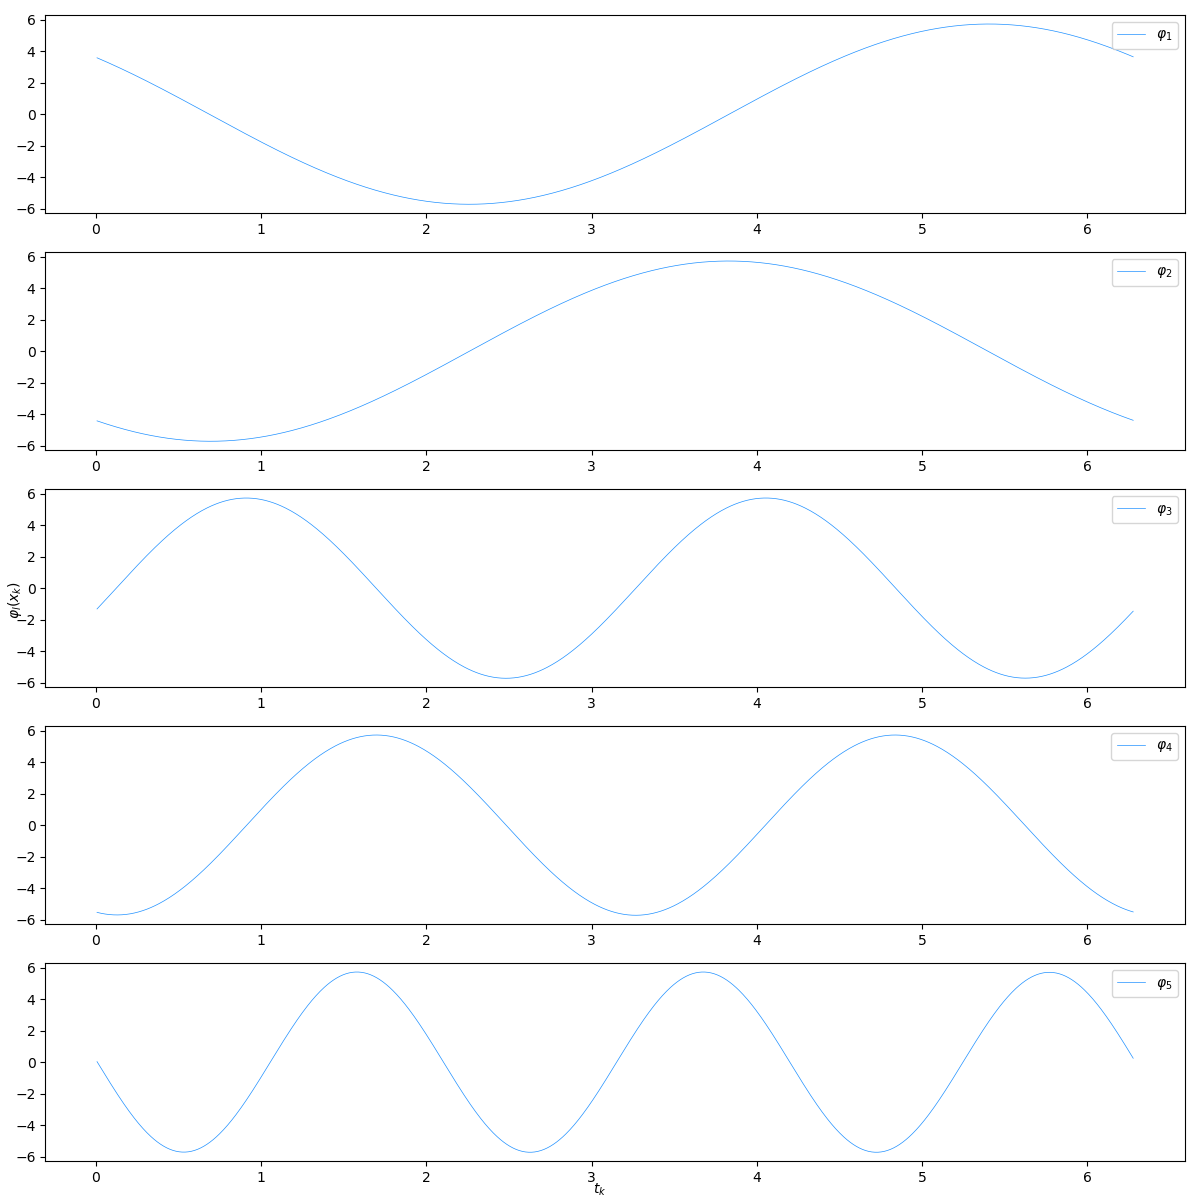
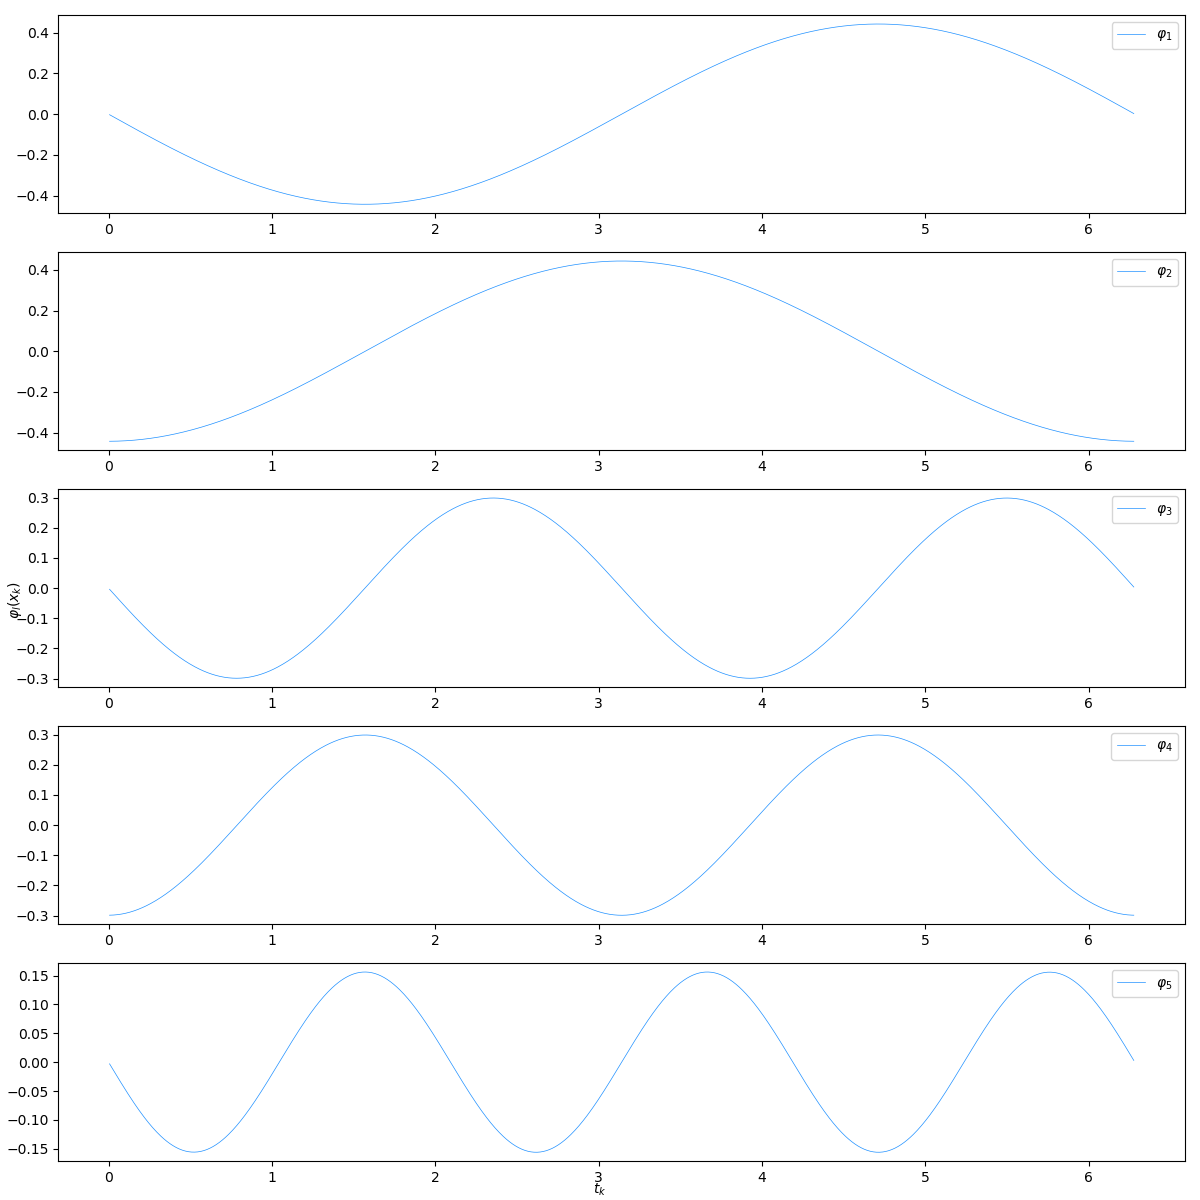
Task 2 testing

diff --git a/task2/task2.py b/task2/task2.py
@@ -39,14 +39,14 @@ def distance_matrix(X):
 
     return D
 
+
 def diffusion_map_algorithm(X,L):
     """
 
     :param X: Data points
     :param L: Number of eigenfunctions
-    :return: Eigenfunctions φ0, φ1, ...., φL+1
+    :return:
     """
-    #returns eigenfunctions
 
     # 1. Form a distance matrix D with entries
     D = distance_matrix(X)
@@ -58,7 +58,7 @@ def diffusion_map_algorithm(X,L):
     P = np.sum(W, axis=1)
     # 5. Normalize W to form the kernel matrix K = P^−1 W P^−1
     P_inverse = np.linalg.inv(np.diag(P))
-    K = P_inverse.dot(P_inverse).dot(W).dot(P_inverse)
+    K = P_inverse.dot(W).dot(P_inverse)   #****** There was an additional P_inverse?
     # 6. Form the diagonal normalization matrix Qii = Nj=1 Kij.
     Q = np.sum(K, axis=1)
     # 7. Form the symmetric matrix Tˆ = Q−1/2KQ−1/2.
@@ -67,8 +67,6 @@ def diffusion_map_algorithm(X,L):
     # 8. Find the L + 1 largest eigenvalues al and associated eigenvectors vl of T
     # The normalized selected eigenvector corresponding to the eigenvalue w[i] is the column v[:,i].
     w, v = eigh(T)
-    print(w.shape)
-    print(v.shape)
     a_l = w[-(L + 1):]
     v_l = v.T[-(L + 1):]
     # Reverse the vectors to have decreasing order
@@ -76,10 +74,16 @@ def diffusion_map_algorithm(X,L):
     v_l = v_l[::-1]
     # 9. Compute the eigenvalues of Tˆ1/ε by λ2 = a1/ε.
     lambda_l = np.sqrt(a_l ** (1 / epsilon))  # TODO: Do we need to take square root of a_l?
+    print(lambda_l.shape)
+    print(lambda_l)
     # 10. Compute the eigenvectors φl of the matrix T = Q−1K by φl = Q−1/2vl.
     S = np.matmul(Q_inverse, v_l.T)
+    print(S.shape)
+    print(S)
+    print((S*lambda_l).shape)
+    print(S * lambda_l)
+    return S * lambda_l
 
-    return S
 
 def plot_5_eigenfunctions(tk,S):
     fig, (ax1, ax2, ax3, ax4, ax5) = plt.subplots(5, 1, figsize=(12, 12))
@@ -97,11 +101,11 @@ def plot_5_eigenfunctions(tk,S):
     fig.text(0.5, 0.005, '$t_k$', ha='center')
     fig.text(0.005, 0.5, '$φ_l(x_k)$', va='center', rotation='vertical')
     plt.tight_layout()
-    # plt.savefig('part_1_eigenfunctions.png')
+    plt.savefig('part_1_eigenfunctions.png')
     plt.show()
 
 def plot_eigenfunctions(S):
-    fig, (ax1, ax2, ax3, ax4) = plt.subplots(4, 1, figsize=(12, 12))
+    fig, ((ax1, ax2, ax3), (ax4, ax5, ax6), (ax7, ax8, ax9), (ax10, ax11, ax12), (ax13, ax14, ax15)) = plt.subplots(5, 3, figsize=(12, 12))
     # Skipping φ0 since it is constant
     ax1.scatter(S[:, 1], S[:, 2], color='dodgerblue', s=2)
     ax1.set_ylabel('$φ_2$')
@@ -111,11 +115,37 @@ def plot_eigenfunctions(S):
     ax3.set_ylabel('$φ_4$')
     ax4.scatter(S[:, 1], S[:, 5], color='dodgerblue', s=2)
     ax4.set_ylabel('$φ_5$')
+    ax5.scatter(S[:, 1], S[:, 6], color='dodgerblue', s=2)
+    ax5.set_ylabel('$φ_6$')
+    ax6.scatter(S[:, 1], S[:, 7], color='dodgerblue', s=2)
+    ax6.set_ylabel('$φ_7$')
+    ax7.scatter(S[:, 1], S[:, 8], color='dodgerblue', s=2)
+    ax7.set_ylabel('$φ_8$')
+    ax8.scatter(S[:, 1], S[:, 9], color='dodgerblue', s=2)
+    ax8.set_ylabel('$φ_9$')
+    ax9.scatter(S[:, 1], S[:, 10], color='dodgerblue', s=2)
+    ax9.set_ylabel('$φ_{10}$')
+    ax10.scatter(S[:, 1], S[:, 11], color='dodgerblue', s=2)
+    ax10.set_ylabel('$φ_{11}$')
+    ax11.scatter(S[:, 1], S[:, 12], color='dodgerblue', s=2)
+    ax11.set_ylabel('$φ_{12}$')
+    ax12.scatter(S[:, 1], S[:, 13], color='dodgerblue', s=2)
+    ax12.set_ylabel('$φ_{13}$')
+    ax13.scatter(S[:, 1], S[:, 14], color='dodgerblue', s=2)
+    ax13.set_ylabel('$φ_{14}$')
+    ax14.scatter(S[:, 1], S[:, 15], color='dodgerblue', s=2)
+    ax14.set_ylabel('$φ_{15}$')
+    ax15.scatter(S[:, 1], S[:, 16], color='dodgerblue', s=2)
+    ax15.set_ylabel('$φ_{16}$')
+
     fig.text(0.5, 0.005, '$φ_1$', ha='center')
     plt.tight_layout()
     # plt.savefig('part_1_eigenfunctions.png')
     plt.show()
 
+    '''
+    fig, ((ax1, ax2), (ax3, ax4), (ax5, ax6), (ax7, ax8), (ax9, ax10)) = plt.subplots(5, 2, figsize=(12, 12))
+'''
 def main():
     # Part 1
     N = 1000
@@ -126,11 +156,13 @@ def main():
     #plot_5_eigenfunctions(tk, S)
 
     # Part 2
-    N = 5000
-    L = 5
-    X, t = make_swiss_roll(N, noise=0.0, random_state=None)
-    S = diffusion_map_algorithm(X,L)
-    plot_eigenfunctions(S)
+    N_1 = 1000
+    L_1 = 16
+    X_1, t = make_swiss_roll(N_1, noise=0.0, random_state=None)
+    S_1 = diffusion_map_algorithm(X_1,L_1)
+    print(S_1.shape)
+    plot_eigenfunctions(S_1)
+
 
 
 
